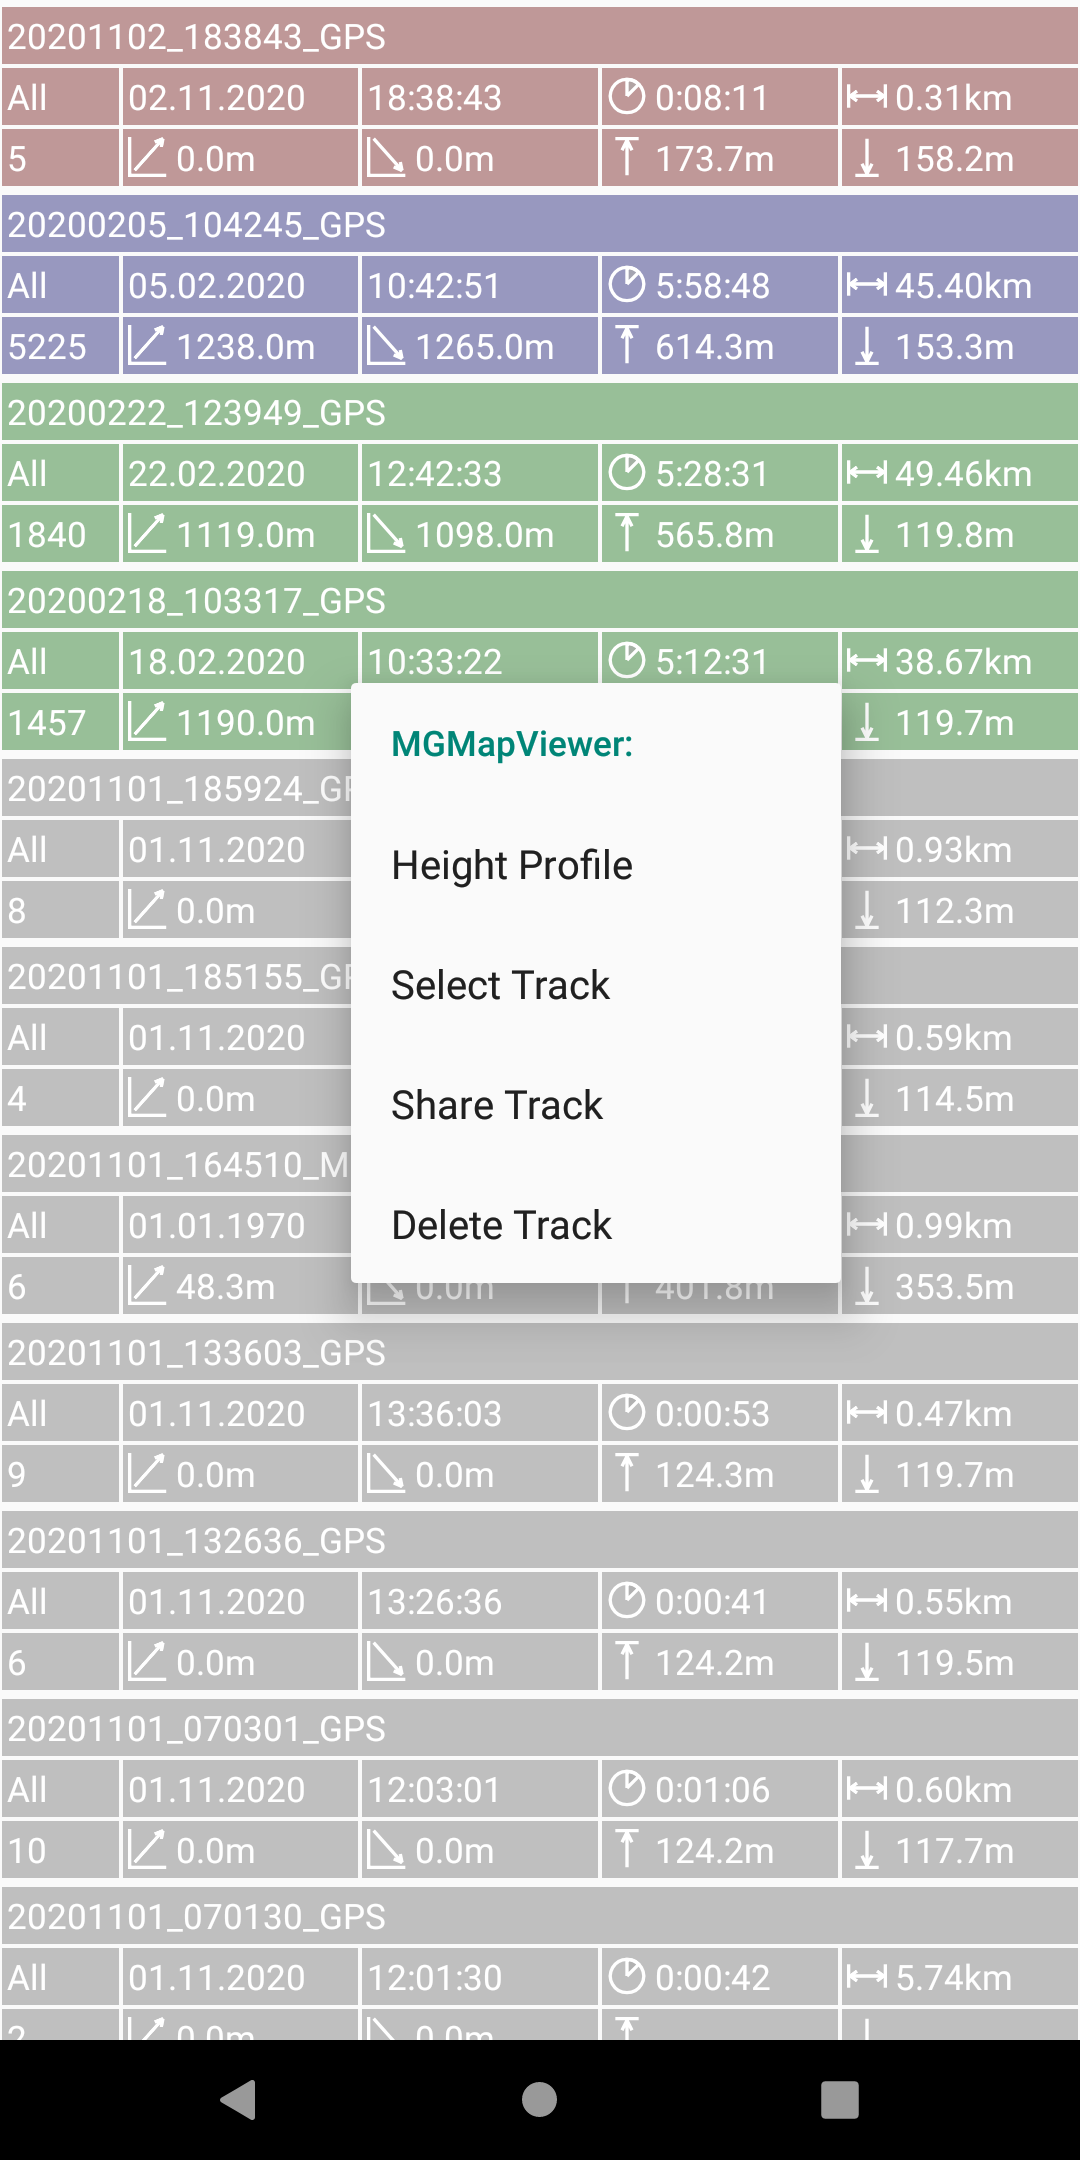
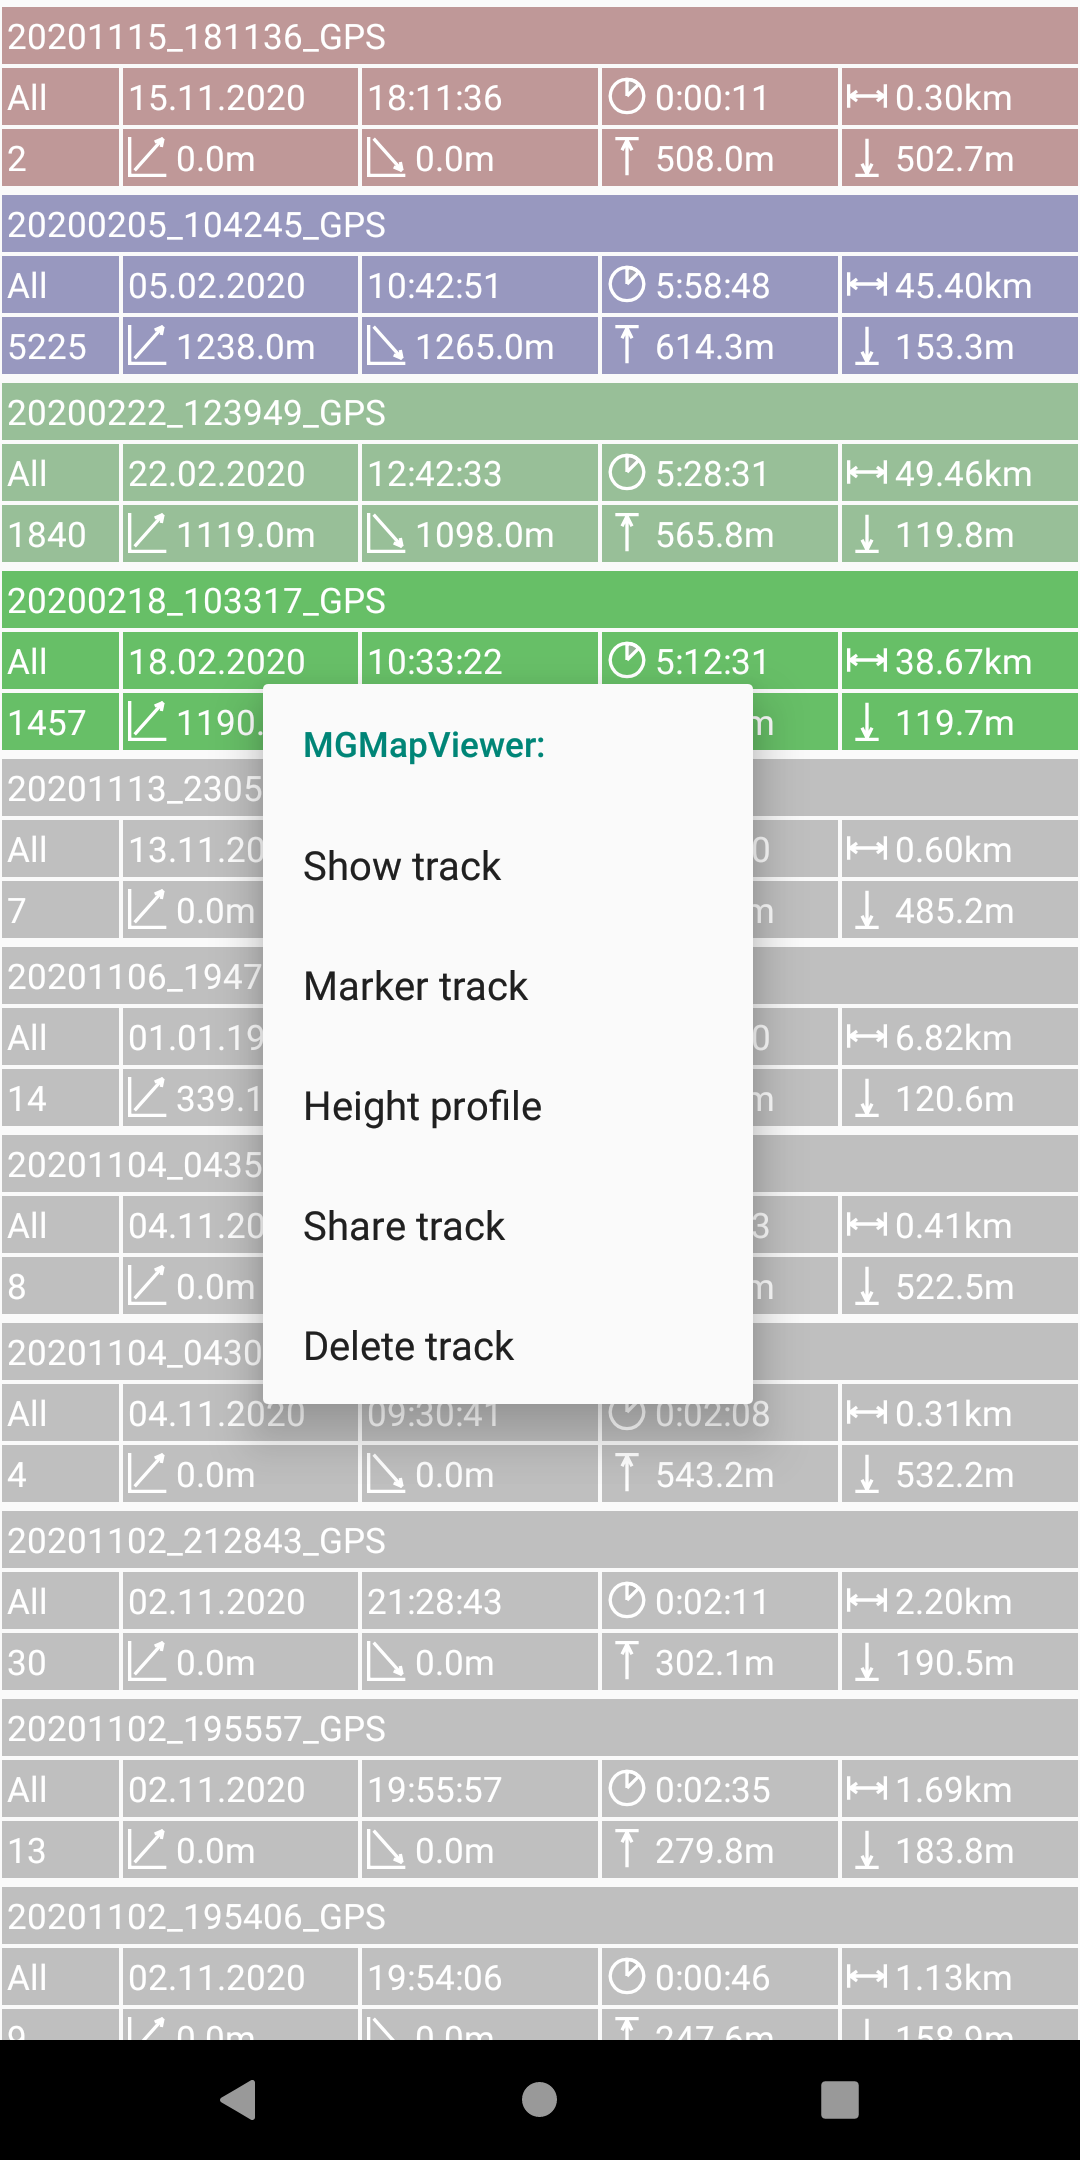
rework docs for statistic view

diff --git a/docs/Features/FurtherFeatures/Statistic/statistic.md b/docs/Features/FurtherFeatures/Statistic/statistic.md
@@ -6,21 +6,43 @@ To enter the statistic view use <span style="color:gray">*Menu | Statistic*</spa
 
 <img src="./stat1.png" width="200" />&nbsp;
 
+#### Statistic information
+
 The following figure shows an example of the statistic view - for the coloring see [here](../../track.md).
 Inside of a color group the entries are sorted (descending) by name.
 
 <img src="./stat2.png" width="400" />&nbsp;
 
-Each statistic entry consists of three lines - details are explained here:
 
 <img src="./stat3.png" width="800" />&nbsp;
 
-Wit a long press on an statistic entry you get a popup menu:
+Each statistic entry consists of three lines - details are explained above.
+
+
+#### Single entry context menu
+
+With a long press on an statistic entry you get a popup menu (you may notice the color change for the selected entry):
 
 <img src="./popup.png" width="400" />&nbsp;
 
 This menu offers functionality:
+- Show Track: open this track as the selected track
+- Marker Track: open this track as the marker track
 - Height Profile: open the height profile for this track
-- Select Track: open this track as the selected track
 - Share Track: open a share intent - allows to send the track as gpx file via mail, Whatsapp, etc
-- Delete track: delete the track (there is a confirm required - but once it is deleted, you don't get it back!)
+- Delete track: delete the track (there is a confirm required - but once you confirm, then it will be deleted, you don't get it back!)
+
+#### Multi entry context menu
+
+You can mark a statistic entry with a simple (short) tap on it. As a visual feedback the color of the entry becomes slightly stronger.
+Tapping on a marked entry does unmark it, so the color changes again back.
+With a long tap you get again a context menu with those entries, which make sense for multiple entries:
+
+<img src="./popup2.png" width="400" />&nbsp;
+
+This context menu offers functionality:
+- Show Track: open all marked tracks, the entry with the context menu as the selected one
+- Share Track: open a share intent - allows to send the marked tracks as gpx files via mail, Whatsapp, etc
+- Delete track: delete the tracks (there is a confirm required - but once you confirm, then they will be deleted, you don't get them back!)
+
+

diff --git a/docs/index.md b/docs/index.md
@@ -27,7 +27,7 @@ Each feature contains a link to the corresponding detailed feature description.
 - [Marker Track](./Features/MainTrackFeatures/MarkerTrack/markertrack.md) create a track (marker track) by tapping some points, including manipulations like moving points, 
   insert and delete points. Such a marker track can also be imported/exported. 
 - [Basic Routing](./Features/MainTrackFeatures/Routing/routing.md) basic route calculation (shortest path) based on a marker track.
-- [Routing Hints](./Features/MainTrackFeatures/Routing/hints.md) basic voice output based on the route calculation.
+- [Routing Hints](./Features/FurtherFeatures/RoutingHints/hints.md) basic voice output based on the route calculation.
 - [Dashboard](./Features/MainTrackFeatures/Dashboard/dashboard.md) visualization of the most important information of the recording, the selected and the route track log.
 
 ### Further features
